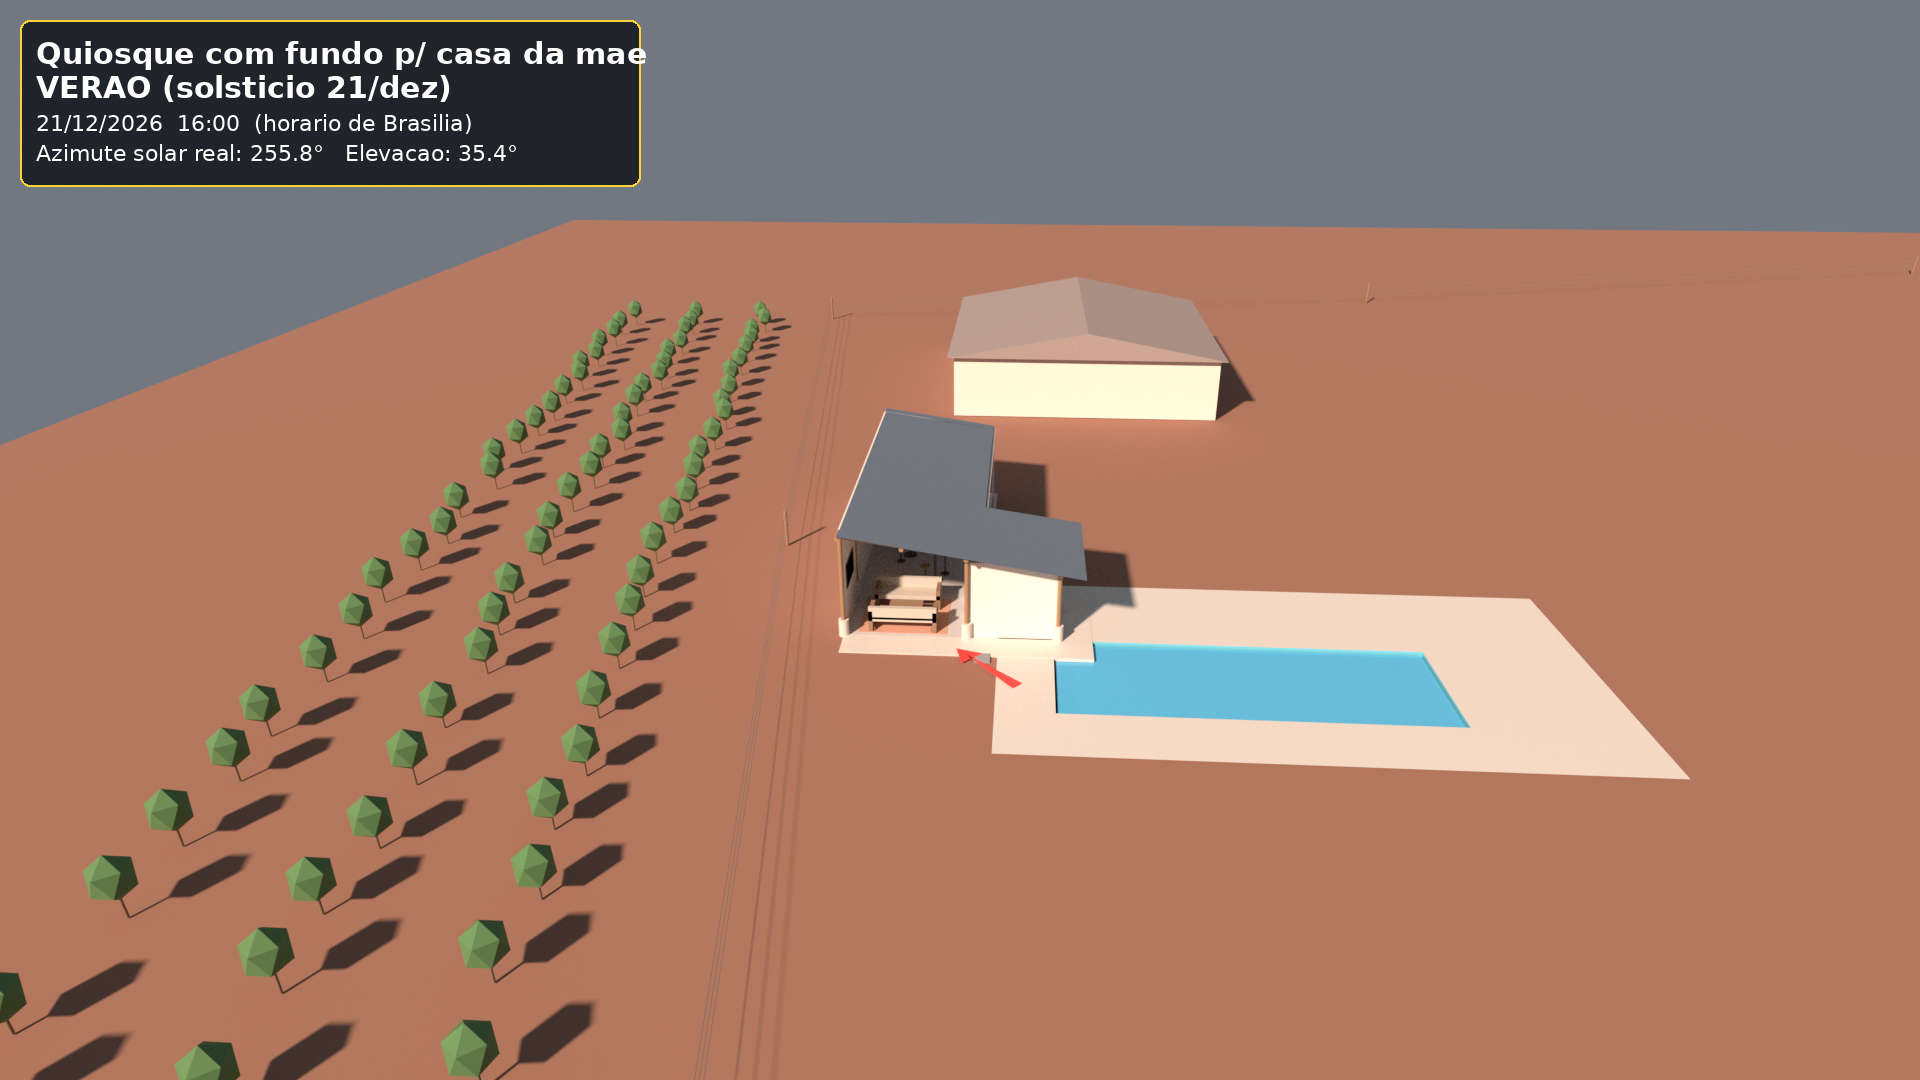
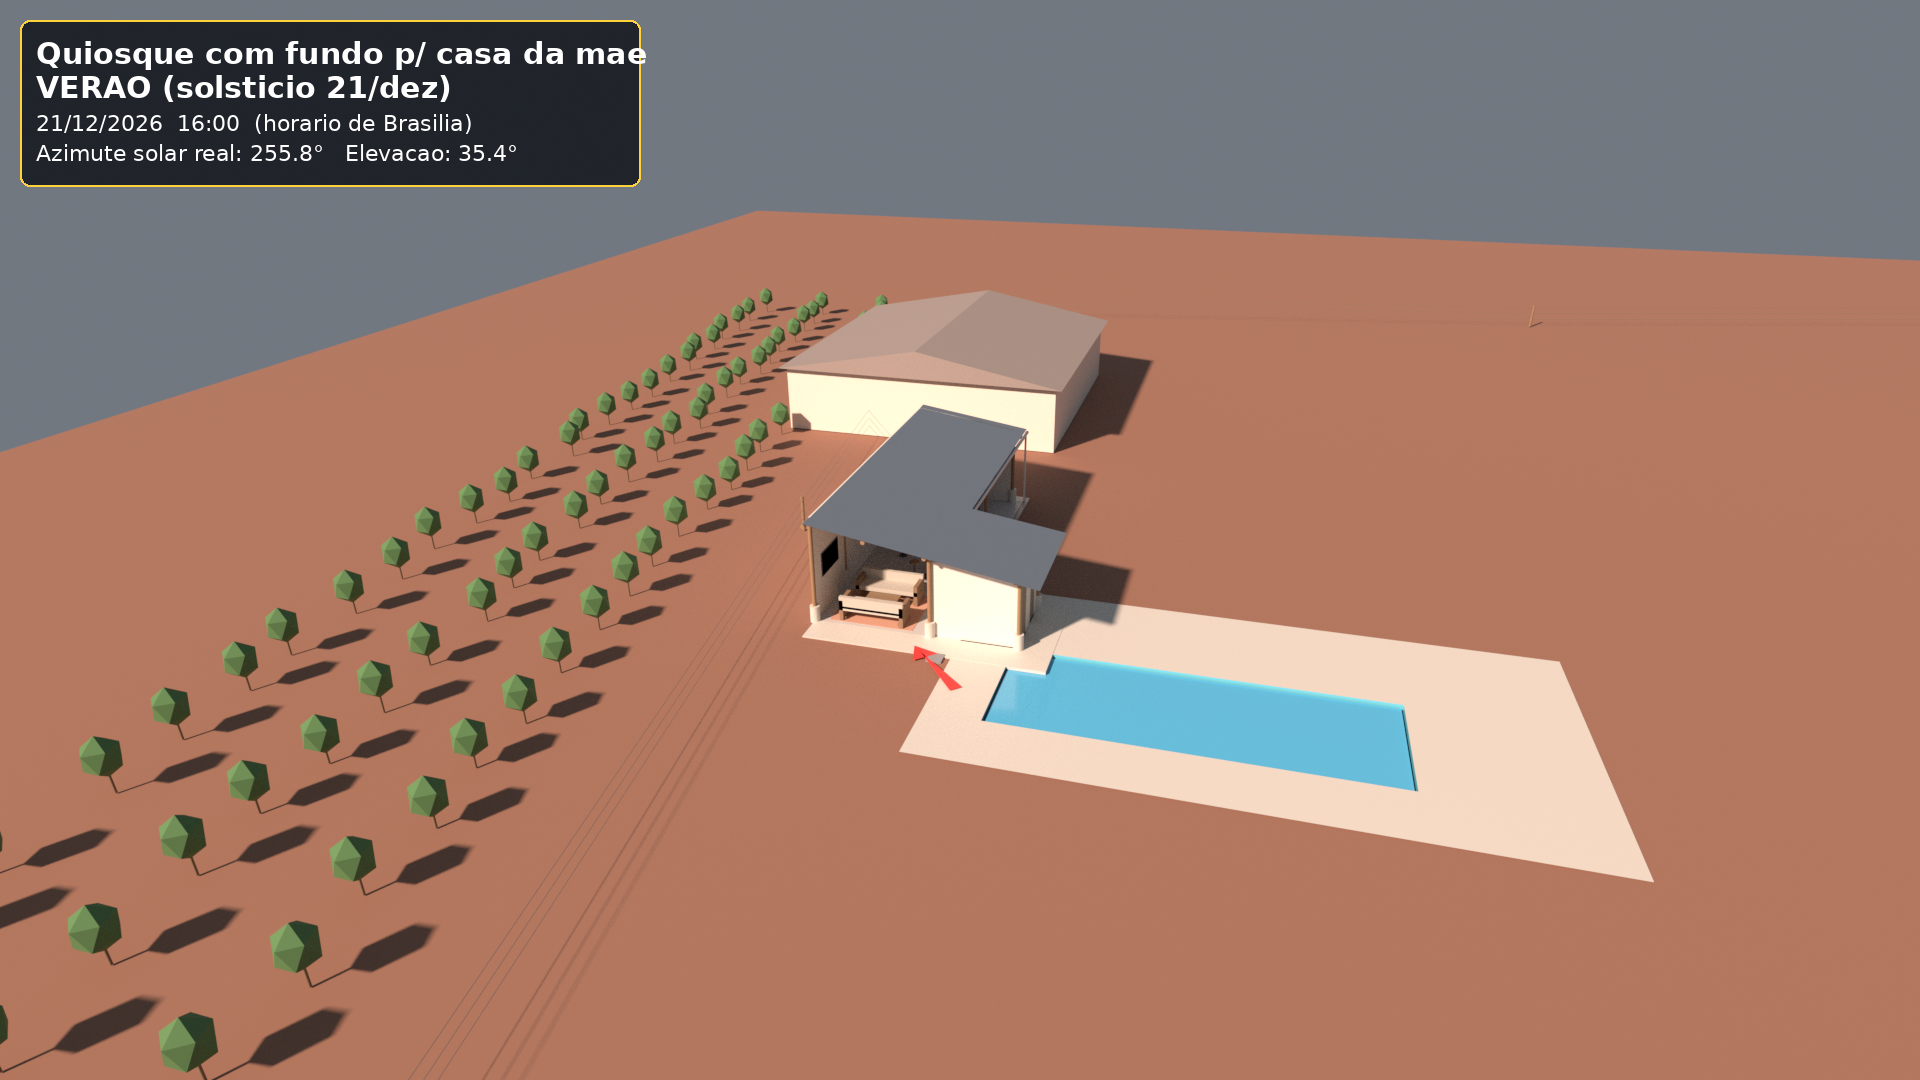
Corrige posição da casa da mãe com GPS confirmado pelo usuário
Usuário deu a posição real e direta da casa (-21.352877824002647,
-45.989957740052), mais precisa que a estimativa anterior (derivada
indiretamente de 3 pontos do projeto de fibra óptica — roteador/câmeras
"MÃE" — que ficava ~11 m fora do ponto real). Atualiza
CASA_MAE_CENTRO em arquitetonico/contexto_externo.py e reorienta a
câmera de visao-casa-da-mae/render_v3_sol.py (agora ~20 m de distância,
direção 196°/16° em vez de 28 m / 184°/3,5°). Re-renderiza as 10 imagens.

diff --git a/visao-casa-da-mae/render_v3_sol.py b/visao-casa-da-mae/render_v3_sol.py
@@ -15,12 +15,11 @@ prova de sol real (NOAA, nucleo/sun_geo.py) às 15h/16h/17h/18h/19h, verão e
 inverno.
 
 Câmera customizada (diferente do offset genérico das outras visões): a
-casa da mãe tem posição real conhecida (3 pontos do projeto de fibra
-óptica — roteador "MÃE" + câmeras "Mãe Cozinha"/"Mãe Varanda",
-convertidos pra XY do projeto, ver arquitetonico/contexto_externo.py) a
-~28 m daqui, direção ~184° (quase -X). A câmera fica do lado OPOSTO da
-casa (a ~3,5°, "atrás" do quiosque em relação à casa) olhando de volta
-pro quiosque, pra casa aparecer ao fundo, atrás do quiosque, como pedido.
+casa da mãe tem posição real confirmada pelo usuário (GPS
+-21.352877824002647, -45.989957740052, ver arquitetonico/contexto_externo.py)
+a ~20,3 m daqui, direção ~196° (SO). A câmera fica do lado OPOSTO da casa
+(a ~15,8°, "atrás" do quiosque em relação à casa) olhando de volta pro
+quiosque, pra casa aparecer ao fundo, atrás do quiosque, como pedido.
 
 Uso:
   BL=~/opt/blender-4.2.23-linux-x64/blender
@@ -41,11 +40,11 @@ import nucleo.variant_sol_common as common
 TARGET = (-8.031770738245125, -7.919110538381107)
 OUT_DIR = os.path.join(scriptdir, "renders")
 
-# Câmera do lado oposto da casa (ver docstring): casa real a ~184° daqui,
-# então a câmera fica a ~3,5°, olhando de volta pro quiosque com a casa
+# Câmera do lado oposto da casa (ver docstring): casa real a ~196° daqui,
+# então a câmera fica a ~15,8°, olhando de volta pro quiosque com a casa
 # aparecendo atrás dele.
 import math as _math
-_ang = _math.radians(3.5)
+_ang = _math.radians(15.766662122322742)
 _dist = 32.0
 CAM_OFFSET = (_dist * _math.cos(_ang), _dist * _math.sin(_ang), 15.0)
 

diff --git a/arquitetonico/contexto_externo.py b/arquitetonico/contexto_externo.py
@@ -62,11 +62,13 @@ CERCA_ORDEM = ["P7", "P8", "P9", "P10", "P11", "P12", "P13"]
 # visível perto da piscina (P9->P12) — ver docstring.
 CAFE_ORDEM = ["P9", "P10", "P11", "P12"]
 
-# Casa da mãe: centro/pegada aproximados, derivados de 3 pontos reais do
-# projeto de fibra óptica (roteador "MÃE" + câmeras "Mãe Cozinha"/"Mãe
-# Varanda"), convertidos pra XY do projeto com a mesma calibração de
-# nucleo/sun_geo.py — ver docstring do módulo.
-CASA_MAE_CENTRO = (-31.85, -3.63)
+# Casa da mãe: centro/pegada aproximados. Posição confirmada diretamente
+# pelo usuário (13/09/2026, GPS -21.352877824002647, -45.989957740052),
+# convertida pra XY do projeto com a mesma calibração de nucleo/sun_geo.py
+# — mais precisa que a estimativa anterior (baseada em 3 pontos indiretos
+# do projeto de fibra óptica — roteador/câmeras "MÃE" — que ficava ~11 m
+# fora do ponto real dado pelo usuário).
+CASA_MAE_CENTRO = (-27.59, -13.44)
 CASA_MAE_LARGURA = 12.0   # X, m (aproximado — não é levantamento da casa)
 CASA_MAE_PROFUND = 12.0   # Y, m
 
